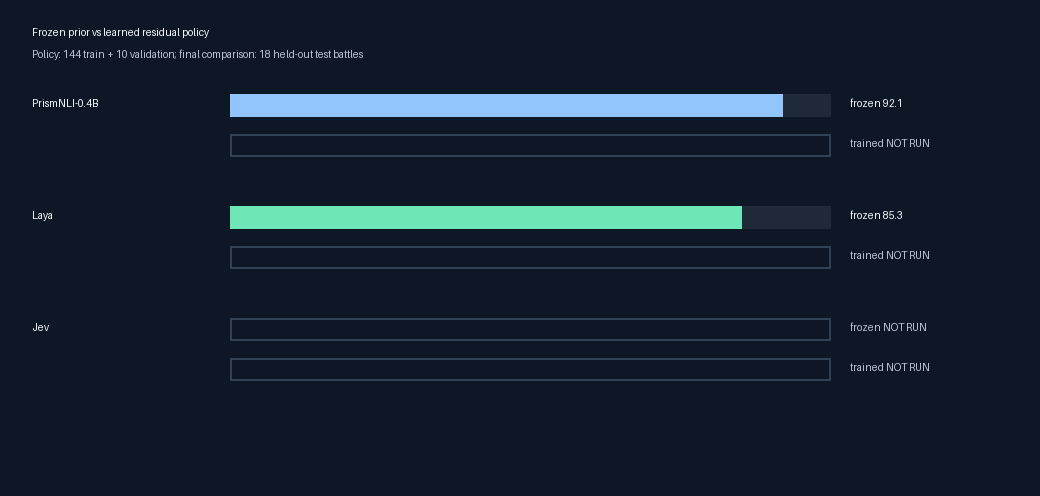
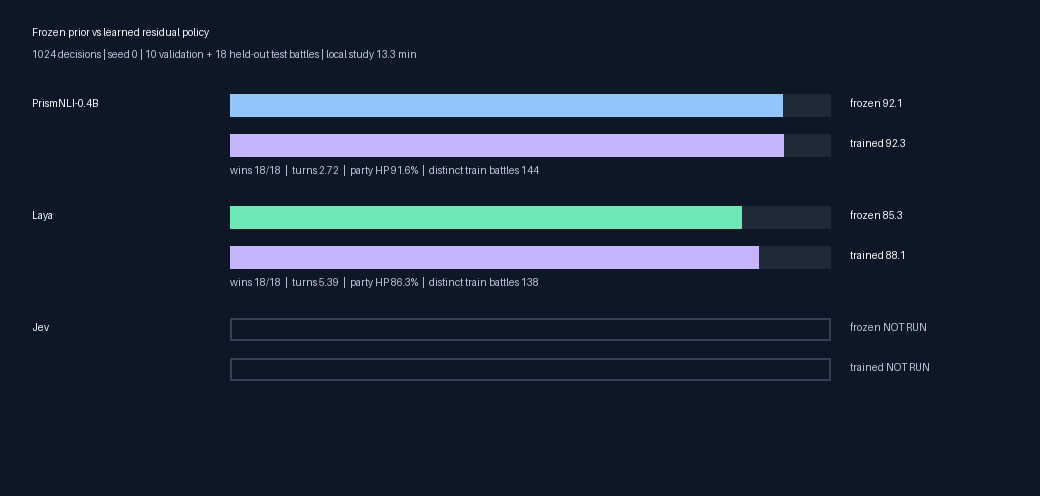
Run talk-sized residual policy study

diff --git a/scripts/plot_results.py b/scripts/plot_results.py
@@ -63,10 +63,13 @@ def zero_shot(data: dict, output: Path) -> None:
 def trained(data: dict, output: Path) -> None:
     zero = {row["model"]: row for row in data["zero_shot"]}
     rows = data["trained_policy"]
+    protocol = data.get("policy_protocol", {})
+    wall_minutes = protocol.get("end_to_end_wall_seconds", 0) / 60
     image, draw, font = _canvas(
         "Frozen prior vs learned residual policy",
-        f"Policy: {data['dataset']['train_battles']} train + {data['dataset']['validation_battles']} validation; "
-        f"final comparison: {data['dataset']['test_battles']} held-out test battles",
+        f"{protocol.get('train_steps', '?')} decisions | seed 0 | "
+        f"{data['dataset']['validation_battles']} validation + "
+        f"{data['dataset']['test_battles']} held-out test battles | local study {wall_minutes:.1f} min",
         160 + 112 * len(rows),
     )
     for index, row in enumerate(rows):
@@ -83,6 +86,12 @@ def trained(data: dict, output: Path) -> None:
         if row["status"] == "complete":
             _bar(draw, policy_y, row["battle_score"], "#c4b5fd")
             draw.text((850, policy_y + 3), f"trained {row['battle_score']:.1f}", fill=TEXT, font=font)
+            details = (
+                f"wins {row['wins']}/{row['test_battles']}  |  turns {row['mean_turns']:.2f}  |  "
+                f"party HP {row['final_party_hp_percent']:.1f}%  |  "
+                f"distinct train battles {row['training_battles']}"
+            )
+            draw.text((230, policy_y + 30), details, fill=MUTED, font=font)
         else:
             draw.rectangle((230, policy_y, 830, policy_y + 22), outline=GRID, width=2)
             draw.text((850, policy_y + 3), "trained NOT RUN", fill=MUTED, font=font)

diff --git a/scripts/run_policy_study.py b/scripts/run_policy_study.py
@@ -19,7 +19,7 @@ from typing import Any
 def parser() -> argparse.ArgumentParser:
     result = argparse.ArgumentParser(description=__doc__)
     result.add_argument("--priors", nargs="+", choices=["laya", "prism", "jev"], default=["laya", "prism"])
-    result.add_argument("--seeds", nargs="+", type=int, default=list(range(5)))
+    result.add_argument("--seeds", nargs="+", type=int, default=[0])
     result.add_argument("--config", type=Path, default=Path("configs/experiment.json"))
     result.add_argument("--runs-dir", type=Path, default=Path("runs"))
     result.add_argument("--host", type=Path, default=Path(".cache/mgba-runner"))

diff --git a/src/rogue_rl/report.py b/src/rogue_rl/report.py
@@ -150,7 +150,8 @@ def paired_comparison(a: list[dict], b: list[dict], *, samples: int = 2000, seed
     }
     if len(seeds) < 2 or len(groups) < 2:
         result["warning"] = (
-            "At least two agent seeds and two scenario groups required for interval; plan five seeds."
+            "At least two agent seeds and two scenario groups are required for an interval; "
+            "the talk-sized single-seed result is descriptive only."
         )
         return result
     rng = np.random.default_rng(seed)

diff --git a/tests/test_policy_study.py b/tests/test_policy_study.py
@@ -23,6 +23,10 @@ validate_completed_run = study.validate_completed_run
 validate_test_evaluation = study.validate_test_evaluation
 
 
+def test_study_runner_defaults_to_one_talk_sized_seed():
+    assert study.parser().parse_args([]).seeds == [0]
+
+
 def settings_fixture(tmp_path):
     corpus = tmp_path / "battles.json"
     rom = tmp_path / "game.gba"

diff --git a/README.md b/README.md
@@ -66,10 +66,13 @@ The reproducible pilot corpus contains **172 saved Rogue battles**:
 | Split | Battles | Scenario groups | Used for |
 | --- | ---: | ---: | --- |
 | Train | 144 | 39 | Residual PPO updates |
-| Validation | 10 | 6 | Selecting the policy configuration without touching test |
+| Validation | 10 | 6 | Diagnostics at policy steps 0 and 1,024 |
 | Test | 18 | 6 | Final zero-shot and trained-policy comparison |
 
-The first zero-shot test is complete for PrismNLI, Laya, and uniform. Jev needs a valid OpenRouter credential. Residual policies have not been run yet, so the trained rows are explicitly marked `not run` rather than inferred or fabricated.
+The zero-shot and 1,024-step residual-policy tests are complete for PrismNLI
+and Laya. The full local training, validation, and held-out evaluation took
+**13 minutes 17 seconds** on a 10-core M1 Max with 64 GB RAM. Jev still needs a
+valid OpenRouter credential, so its rows remain explicit rather than inferred.
 
 | Model / policy | Training battles | Validation battles | Test battles | Wins | Mean turns | Final party HP | Battle score |
 | --- | ---: | ---: | ---: | ---: | ---: | ---: | ---: |
@@ -77,15 +80,24 @@ The first zero-shot test is complete for PrismNLI, Laya, and uniform. Jev needs 
 | Laya zero shot | 0 | 0 | 18 | 18/18 | 6.17 | 83.5% | 85.3 / 100 |
 | Uniform random zero shot | 0 | 0 | 18 | 18/18 | 4.17 | 84.5% | 87.4 / 100 |
 | Jev zero shot | 0 | 0 | 18 | — | — | — | Not run |
-| PrismNLI + residual PPO | 144 | 10 | 18 | — | — | — | Not run |
-| Laya + residual PPO | 144 | 10 | 18 | — | — | — | Not run |
-| Jev + residual PPO | 144 | 10 | 18 | — | — | — | Not run |
+| PrismNLI + residual PPO | 144 | 10 | 18 | 18/18 | 2.72 | 91.6% | 92.3 / 100 |
+| Laya + residual PPO | 138 | 10 | 18 | 18/18 | 5.39 | 86.3% | 88.1 / 100 |
+| Jev + residual PPO | — | — | — | — | — | — | Not run |
+
+“Training battles” is the number of distinct save states actually sampled.
+With the same 1,024-decision budget, Laya visited 138 and PrismNLI visited all
+144 because their sampled battles had different lengths.
 
 ![Zero-shot model comparison](docs/assets/zero-shot-performance.png)
 
 ![Frozen model versus trained policy](docs/assets/trained-policy-performance.png)
 
-All completed zero-shot arms won every test battle, so win rate alone cannot separate them. The battle score adds granularity: PrismNLI won faster and retained more party HP on this fixture. This remains a small pilot, not evidence of general Pokémon mastery.
+All completed arms won every test battle, so win rate alone cannot separate
+them. Laya's learned policy improved its mean score from 85.3 to 88.1, reduced
+turns from 6.17 to 5.39, and retained more party HP. PrismNLI was essentially
+flat: its score moved from 92.1 to 92.3 while turns and HP became slightly
+worse. These are single-seed descriptive results, not evidence of a robust
+effect or general Pokémon mastery.
 
 ## Experiment
 
@@ -100,11 +112,10 @@ flowchart LR
     Z --> ZJ[Jev]
     Z --> ZU[Uniform random]
     TR --> PPO[Residual PPO policy]
-    VA --> SELECT[Select configuration by validation score]
-    PPO --> SELECT
-    SELECT --> TP[PrismNLI + policy]
-    SELECT --> TL[Laya + policy]
-    SELECT --> TJ[Jev + policy]
+    VA --> DIAG[Diagnostics at steps 0 and 1,024]
+    PPO --> TP[PrismNLI + policy]
+    PPO --> TL[Laya + policy]
+    PPO --> TJ[Jev + policy]
     ZP --> COMPARE[Held-out test comparison]
     ZL --> COMPARE
     ZJ --> COMPARE
@@ -152,7 +163,11 @@ This makes a two-turn full-health win score much better than a ten-turn win at h
 
 The final table always reports raw wins, turns, party HP, and battle score so the scalar can be audited. Latency, action diversity, switch rate, residual KL, and argmax override rate are additional diagnostics.
 
-Policy configurations are chosen on validation in this order: scenario-weighted win rate, mean battle score, final party HP, then fewer turns. The test set is used once after selection. Results are averaged across learner seeds 0–4; the best-looking test seed is never selected for publication. See [the complete scoring rule](docs/scoring.md).
+The talk-sized protocol fixes the policy configuration before training and uses
+validation as a diagnostic at steps 0 and 1,024. The test set is used once at
+the end. Its single learner seed makes the result descriptive; it does not
+support a confidence interval or a claim that small differences are robust.
+See [the complete scoring rule](docs/scoring.md).
 
 ## Reproduce the environment
 
@@ -217,20 +232,23 @@ Every run writes `metadata.json`, raw `episodes.jsonl`, a first-battle decision 
 
 ## Train the residual policies
 
-Train PrismNLI, Laya, and Jev with the same 144 training battles, 10 validation battles, 100,000 policy decisions, and learner seeds 0–4. Uniform stays a zero-shot random control.
+The default is deliberately small enough for a live demo: PrismNLI, Laya, and
+Jev use the same 144 training battles, 10 validation battles, **1,024 policy
+decisions**, and learner seed 0. Uniform stays a zero-shot random control. On
+this 10-core M1 Max with 64 GB RAM, the target is under 30 minutes for the two
+local arms plus their held-out evaluations. Jev's hosted API latency is measured
+and reported separately because it cannot be bounded by the Mac.
 
 ```sh
 for prior in prism laya jev; do
-  for seed in 0 1 2 3 4; do
-    uv run rogue-rl train --mode residual --prior "$prior" --seed "$seed" \
-      --output "runs/${prior}-residual-${seed}"
-  done
+  uv run rogue-rl train --mode residual --prior "$prior" --seed 0 \
+    --output "runs/${prior}-residual-0"
 done
 ```
 
-For a multi-day local run, the resumable study runner manages the headless mGBA
-process, skips seed runs that already have `completed.json`, evaluates each final
-checkpoint once, and reports progress in `runs/policy-study-status.json`:
+The study runner manages the headless mGBA process, skips completed runs,
+evaluates each final checkpoint once, records total wall time, and reports
+progress in `runs/policy-study-status.json`:
 
 ```sh
 mkdir -p runs
@@ -251,14 +269,15 @@ An interrupted seed keeps its partial directory for diagnosis. Move or remove
 that one incomplete directory before restarting; completed seeds are retained
 and skipped.
 
-Training evaluates validation every 5,000 decisions. Compare candidate settings only on those validation records, lock the selected configuration, and evaluate the final fixed-budget checkpoint once on test. The study runner performs this test evaluation automatically. Use the following loop only when the individual `train` commands were run manually:
+Training evaluates validation before learning and after 1,024 decisions. The
+configuration and budget are fixed in advance; the validation result does not
+select a more flattering checkpoint. The study runner performs the final test
+evaluation automatically. Use this loop only when training was run manually:
 
 ```sh
 for prior in prism laya jev; do
-  for seed in 0 1 2 3 4; do
-    uv run rogue-rl evaluate \
-      --checkpoint "runs/${prior}-residual-${seed}/checkpoint-000100000.pt"
-  done
+  uv run rogue-rl evaluate \
+    --checkpoint "runs/${prior}-residual-0/checkpoint-000001024.pt"
 done
 ```
 
@@ -271,11 +290,10 @@ uv run rogue-rl summarize runs/*-residual-* --split test \
   --output runs/test-summary.json
 ```
 
-Use the validation curves to select the policy configuration lexicographically
-by wins, battle score, party HP, and then fewer turns. The published test row
-uses the locked 100,000-step configuration and aggregates all five
-preregistered learner seeds; it never selects the luckiest test seed or test
-checkpoint.
+The published test row uses the fixed 1,024-step checkpoint. With one learner
+seed, report the observed wins, turns, party HP, battle score, and wall time
+without a confidence interval. A longer multi-seed study is useful for a paper,
+but is outside this repository's 30-minute default.
 
 Update the checked-in result registry from verified run summaries, then rebuild both publication plots:
 
@@ -284,7 +302,7 @@ uv run python scripts/plot_results.py \
   --results docs/results.json --output-dir docs/assets
 ```
 
-The registry currently marks unfinished Jev and residual-policy arms as `not_run`. A missing result is never rendered as a zero score.
+The registry marks only the unavailable Jev arms as `not_run`. A missing result is never rendered as a zero score.
 
 ## Visual replays
 

diff --git a/docs/experiment.md b/docs/experiment.md
@@ -47,11 +47,11 @@ Before model development, build a corpus of diverse independent trainer battles 
 
 Suggested full study: 1,000 training scenario groups, 200 validation groups, 200 test groups, with several predeclared RNG realizations per scenario if available. These counts are a **data-collection plan**, not supplied assets. For initial engineering, a handful of representative fixtures is sufficient. A single battle or merely replaying identical teams with new RNG does not establish procedural generalization.
 
-Partition by `scenario_group` (team/opponent encounter identity) so all RNG variants of a scenario remain together. Also separate originating Rogue runs/trainers where possible. The manifest enforces declared group separation and duplicate-byte hashes; it cannot detect falsely labelled or strategically equivalent scenarios. Audit corpus provenance manually before the study. Freeze manifest bytes and hashes before training. Use learner seeds 0–4, distinct from battle-generation seeds.
+Partition by `scenario_group` (team/opponent encounter identity) so all RNG variants of a scenario remain together. Also separate originating Rogue runs/trainers where possible. The manifest enforces declared group separation and duplicate-byte hashes; it cannot detect falsely labelled or strategically equivalent scenarios. Audit corpus provenance manually before the study. Freeze manifest bytes and hashes before training. The talk-sized protocol uses learner seed 0, distinct from battle-generation seeds.
 
 ## Optimization and evaluation
 
-Train each arm for exactly 100,000 policy decisions; checkpoint at 0 and every 5,000. PPO uses 256-step rollouts, gamma=.99, lambda=.95, clip=.2, Adam 3e-4, four epochs, minibatches of 64, value coefficient .5, entropy .01, KL .05, and gradient norm .5. Use terminal win +1, loss -1, draw 0, and no dense shaping. Discounting favors earlier outcomes and is held fixed across arms. Report results at a fixed budget rather than selecting whichever checkpoint wins on test.
+Train each arm for exactly 1,024 policy decisions; checkpoint and validate at steps 0 and 1,024. This four-rollout budget is the repository's talk-sized protocol and targets less than 30 minutes for both local arms and their test evaluations on a 10-core M1 Max with 64 GB RAM. PPO uses 256-step rollouts, gamma=.99, lambda=.95, clip=.2, Adam 3e-4, four epochs, minibatches of 64, value coefficient .5, entropy .01, KL .05, and gradient norm .5. Use terminal win +1, loss -1, draw 0, and no dense shaping. Discounting favors earlier outcomes and is held fixed across arms. Report the fixed-budget result rather than selecting whichever checkpoint wins on test. Hosted Jev latency is recorded separately and is not controlled by local hardware.
 
 A 500-decision cap is a truncation, not a game loss or draw. GAE bootstraps from the last real observation on truncation; it never bootstraps true terminals or carries advantages across episodes. Validation shares the emulator, so an active training battle at a validation boundary is explicitly truncated and bootstrapped before evaluation; the next training battle starts from a fresh save state. Rollout boundaries without evaluation do not reset the battle. Report truncation rates, including the separate evaluation-boundary reason.
 
@@ -59,9 +59,9 @@ Evaluation uses no gradients or optimizer updates. It samples the policy with re
 
 Primary metrics are scenario-weighted wins and the transparent battle-quality table: training battles, validation battles, test battles, wins, game turns, final party HP, and battle score. Learning curves use validation only. The final test compares every trained residual policy with its own frozen zero-shot prior. Also report wall-clock cost, model initialization, cache behavior, trainable parameter count, truncation rate, KL from prior, action diversity, and argmax override rate.
 
-Final comparisons require exactly paired seed/battle/repeat rows. Bootstrap learner seeds and scenario groups as crossed clusters, preserving the pairing across arms, and average RNG repeats within each group. Report 95% percentile intervals; with fewer than two learner seeds or two groups the implementation suppresses the interval. Five seeds are recommended; small counts yield unstable intervals. The implementation gives a descriptive learning AUC and clustered interval for final paired win-rate differences, not an AUC significance test.
+Final comparisons require exactly paired seed/battle/repeat rows. The default has one learner seed, so the implementation suppresses confidence intervals and the result is descriptive. A publication study should preregister multiple learner seeds and a larger decision budget, then bootstrap learner seeds and scenario groups as crossed clusters while preserving pairing across arms. That longer protocol is intentionally separate from the reproducible 30-minute demo.
 
-Use validation for a small preregistered hyperparameter grid (for example KL 0/.01/.05, same search budget for controls). Then lock hyperparameters and run untouched test once at the fixed budget. A null or negative result is valid. No synthetic fixture scores can be used as evidence for this hypothesis.
+The talk-sized run uses the checked-in hyperparameters without a search. Validation is a diagnostic, then untouched test runs once at the fixed budget. A null or negative result is valid. No synthetic fixture scores can be used as evidence for this hypothesis.
 
 ## Provenance
 

diff --git a/docs/results.md b/docs/results.md
@@ -1,4 +1,4 @@
-# First held-out baseline
+# Held-out zero-shot and 1,024-step policy results
 
 This report was generated from `data/battles.json` with 18 test save states in
 six disjoint player-team/opponent-trainer scenario groups. The corpus contains
@@ -15,9 +15,12 @@ six declared player teams.
 | Laya zero shot | 0 | 0 | 18 | 18/18 | 6.17 | 83.5% | 85.3 | Complete |
 | Uniform random zero shot | 0 | 0 | 18 | 18/18 | 4.17 | 84.5% | 87.4 | Complete |
 | Jev zero shot | 0 | 0 | 18 | — | — | — | — | Credential required |
-| PrismNLI + residual PPO | 144 | 10 | 18 | — | — | — | — | Not run |
-| Laya + residual PPO | 144 | 10 | 18 | — | — | — | — | Not run |
-| Jev + residual PPO | 144 | 10 | 18 | — | — | — | — | Not run |
+| PrismNLI + residual PPO | 144 | 10 | 18 | 18/18 | 2.72 | 91.6% | 92.3 | Complete |
+| Laya + residual PPO | 138 | 10 | 18 | 18/18 | 5.39 | 86.3% | 88.1 | Complete |
+| Jev + residual PPO | — | — | — | — | — | — | — | Not run |
+
+Training-battle counts are distinct save states actually sampled within the
+fixed decision budget, not the 144-state pool size.
 
 The primary score is equal-scenario-group held-out win rate; see
 [the scoring rule](scoring.md). Since every completed arm has the same 100%
@@ -25,15 +28,21 @@ win rate, the battle scores are descriptive within-win diagnostics only. They
 show that this particular held-out fixture was completed faster and with more
 HP by PrismNLI, but do not establish broader Pokémon ability.
 
-No policy was trained for this report, so there is no learned-policy panel to
-compare yet. Laya and PrismNLI are frozen zero-shot baselines; uniform is a
-no-model control. This is deliberately not presented as evidence that one
-model plays better: all completed policies reached the win-rate ceiling,
-including uniform. The fixture needs harder held-out states
+The frozen model weights were never fine-tuned. A 69,643-parameter residual
+PPO policy was trained for 1,024 decisions with learner seed 0. Laya improved
+from 85.3 to 88.1 battle score, with fewer turns and more party HP. PrismNLI
+was effectively flat at 92.1 versus 92.3, with slightly more turns and less HP.
+The complete two-model local run took 796.56 seconds (13 minutes 17 seconds) on
+a 10-core M1 Max with 64 GB RAM.
+
+This is deliberately descriptive: one learner seed cannot support a confidence
+interval, and all completed policies reached the win-rate ceiling, including
+uniform. The fixture needs harder held-out states
 (for example, stronger opposing trainers, unfavorable type matchups, and
 resource-constrained party HP) before residual-training test results can
 meaningfully test the steering hypothesis.
 
 The exact raw episode records are created under ignored `runs/` directories by
-the baseline command. The checked-in GIFs are replays from the same held-out
-protocol, and preserve the real in-game move menu.
+the corresponding baseline, train, and evaluate commands. The checked-in GIFs
+are replays from the same held-out protocol and preserve the real in-game move
+menu.

diff --git a/docs/verification.md b/docs/verification.md
@@ -3,7 +3,7 @@
 The current implementation was verified on Apple Silicon with mGBA 0.10.5 and
 Python 3.12. The reproducible checks currently pass:
 
-- **94 Python tests** covering policy masking, PPO/GAE, frozen evaluation,
+- **101 Python tests** covering policy masking, PPO/GAE, frozen evaluation,
   battle scoring, model adapters, corpus isolation, bridge transport, and run
   metadata.
 - `ruff check src scripts tests` passes.
@@ -16,10 +16,10 @@ Python 3.12. The reproducible checks currently pass:
 - Laya and PrismNLI inference run locally; the Jev adapter fails explicitly
   without a valid hosted credential.
 
-The completed held-out measurements are zero-shot only. PrismNLI, Laya, and
-uniform each won 18/18 test battles; their different turns, final party HP, and
-battle scores are recorded in [results.md](results.md). Jev and all residual PPO
-arms remain `not_run`.
+PrismNLI, Laya, and uniform each won 18/18 zero-shot test battles. The 1,024-step
+Laya and PrismNLI policies also completed all 18 battles. Their turns, final
+party HP, battle scores, and 13-minute-17-second end-to-end runtime are recorded
+in [results.md](results.md). Jev remains `not_run` without a valid credential.
 
 The research ROM uses a pinned Emerald Rogue expansion revision and mGBA bridge.
 It controls real game moves, switches, damage, trainer parties, and terminal
@@ -30,4 +30,5 @@ pixels-only or byte-identical retail-game benchmark.
 The current level-10 route-trainer fixture is easy enough for uniform random to
 reach the win-rate ceiling. Battle score provides within-win resolution, but a
 stronger claim about general play or policy improvement needs harder held-out
-states, a completed Jev baseline, and residual-policy runs across seeds 0–4.
+states, a completed Jev baseline, and multiple preregistered learner seeds at a
+larger policy budget.

diff --git a/docs/scoring.md b/docs/scoring.md
@@ -25,10 +25,11 @@ on exactly the same test battle IDs, learner seeds, and repeats:
 improvement = test_win_rate(residual) - test_win_rate(frozen prior)
 ```
 
-The comparison is paired and bootstrapped over learner seeds and scenario
-groups. A policy is called better only when this difference is positive and
-its 95% paired interval excludes zero. Otherwise the result is reported as
-inconclusive, even if the point estimate is positive.
+With at least two learner seeds, the comparison is paired and bootstrapped over
+learner seeds and scenario groups. A policy is called statistically better only
+when this difference is positive and its 95% paired interval excludes zero.
+The talk-sized protocol has one seed, suppresses the interval, and reports only
+the observed descriptive change.
 
 ## 2. Guardrails
 
@@ -96,7 +97,8 @@ Every final report has two held-out panels with identical y-axis and test rows:
 1. **Zero shot:** Laya, PrismNLI, Jev, and uniform.
 2. **Policy learning:** each frozen prior beside its residual PPO policy.
 
-Each bar reports scenario-weighted win rate and its paired interval. A table
-below it reports decisions, party HP, truncations, and latency. Missing arms are
-shown as `not run`; they are never plotted as zero or inferred from another
+The talk-sized plot reports battle score beside the auditable wins, turns, and
+party HP values and does not draw a confidence interval for one seed. A larger
+multi-seed report should add scenario-weighted win-rate intervals. Missing arms
+are shown as `not run`; they are never plotted as zero or inferred from another
 model.

diff --git a/docs/adding-models.md b/docs/adding-models.md
@@ -115,7 +115,7 @@ the training split:
 ```sh
 uv run rogue-rl train --mode residual --prior my-model --seed 0 \
   --output runs/my-model-residual-0
-uv run rogue-rl evaluate --checkpoint runs/my-model-residual-0/checkpoint-000100000.pt
+uv run rogue-rl evaluate --checkpoint runs/my-model-residual-0/checkpoint-000001024.pt
 ```
 
 Run the same learner seeds, step budget, action cap, ROM/profile, and corpus as
